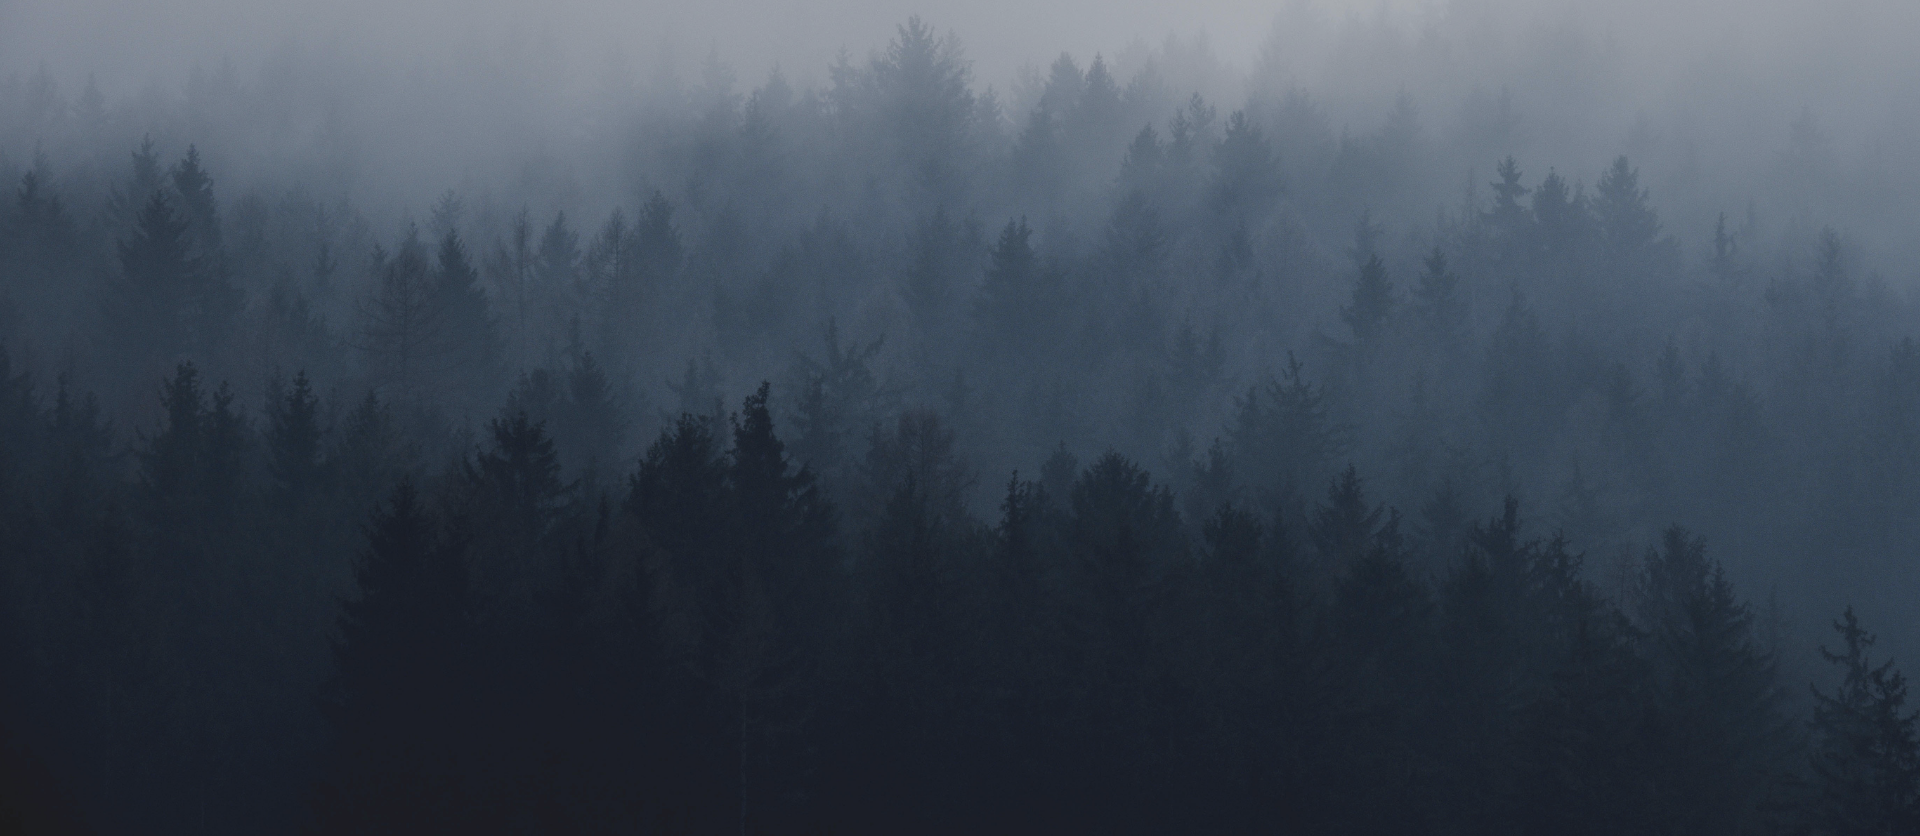
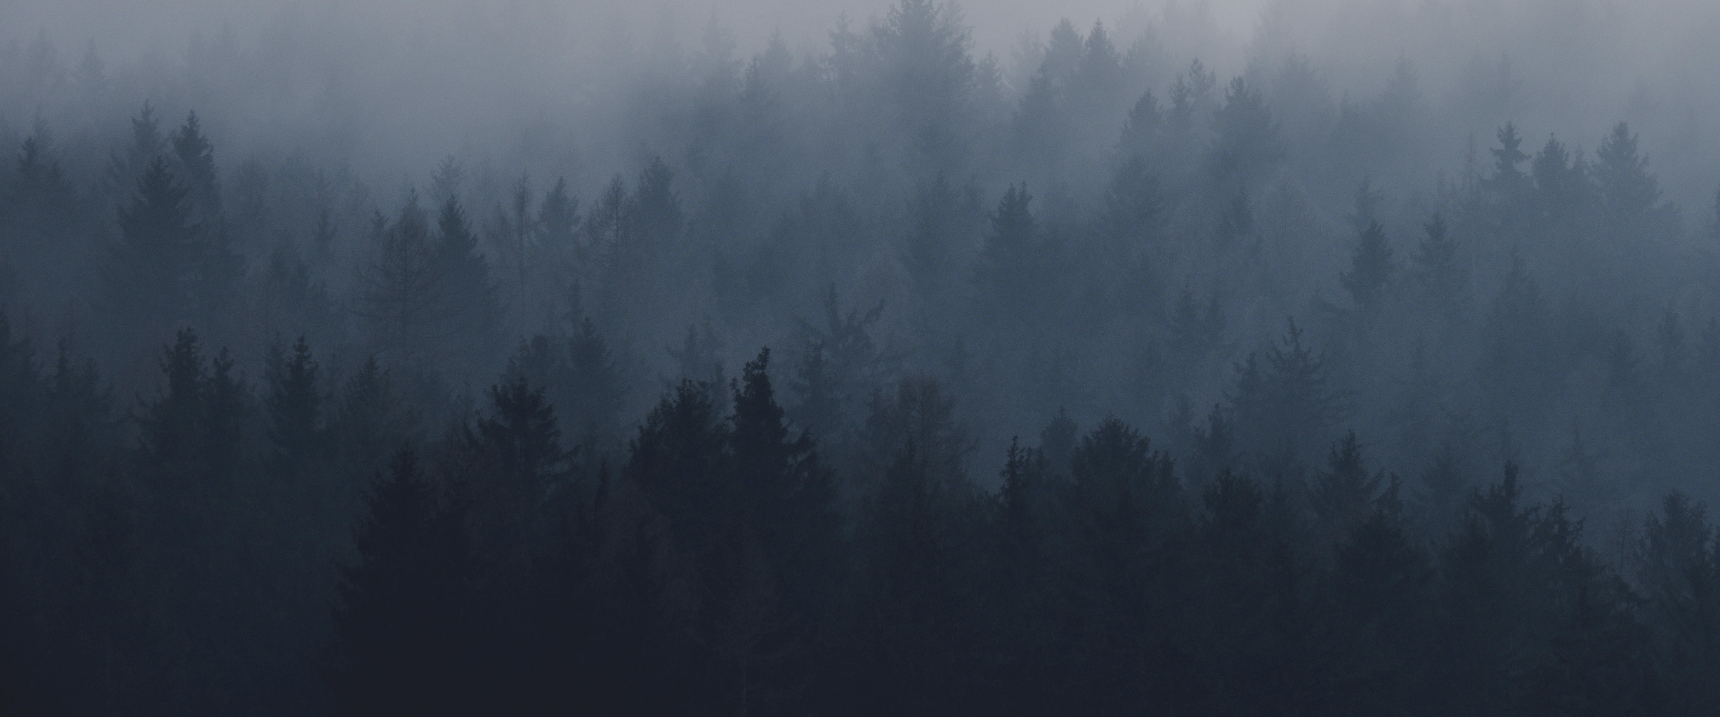
Changed main page css

diff --git a/public/css/style.css b/public/css/style.css
@@ -6,7 +6,7 @@ body {
 .top-container {
   background-image: url("img/bg.png");
   width: 100%;
-  height: 750px;
+  height: 690px;
   margin: 0;
   position: relative;
   overflow: hidden;
@@ -71,7 +71,7 @@ ul li a {
 }
 .copyright {
   position: absolute;
-  bottom: 1%;
+  bottom: 7.5%;
   left: 42%;
   text-align: center;
   color: #eaf6f6;

diff --git a/index.html b/index.html
@@ -30,6 +30,8 @@
             <input id="cityInput" type="text" name="cityName">
             <button type="submit">Go</button>
         </form>
+        
+        <p class="has-text-centered">Ex - Toronto or Bangalore?</p>
         <footer>
               <p class="copyright">© 2021 <u>Anjali Goyal</u>. Copyright.</p> 
         </footer>
